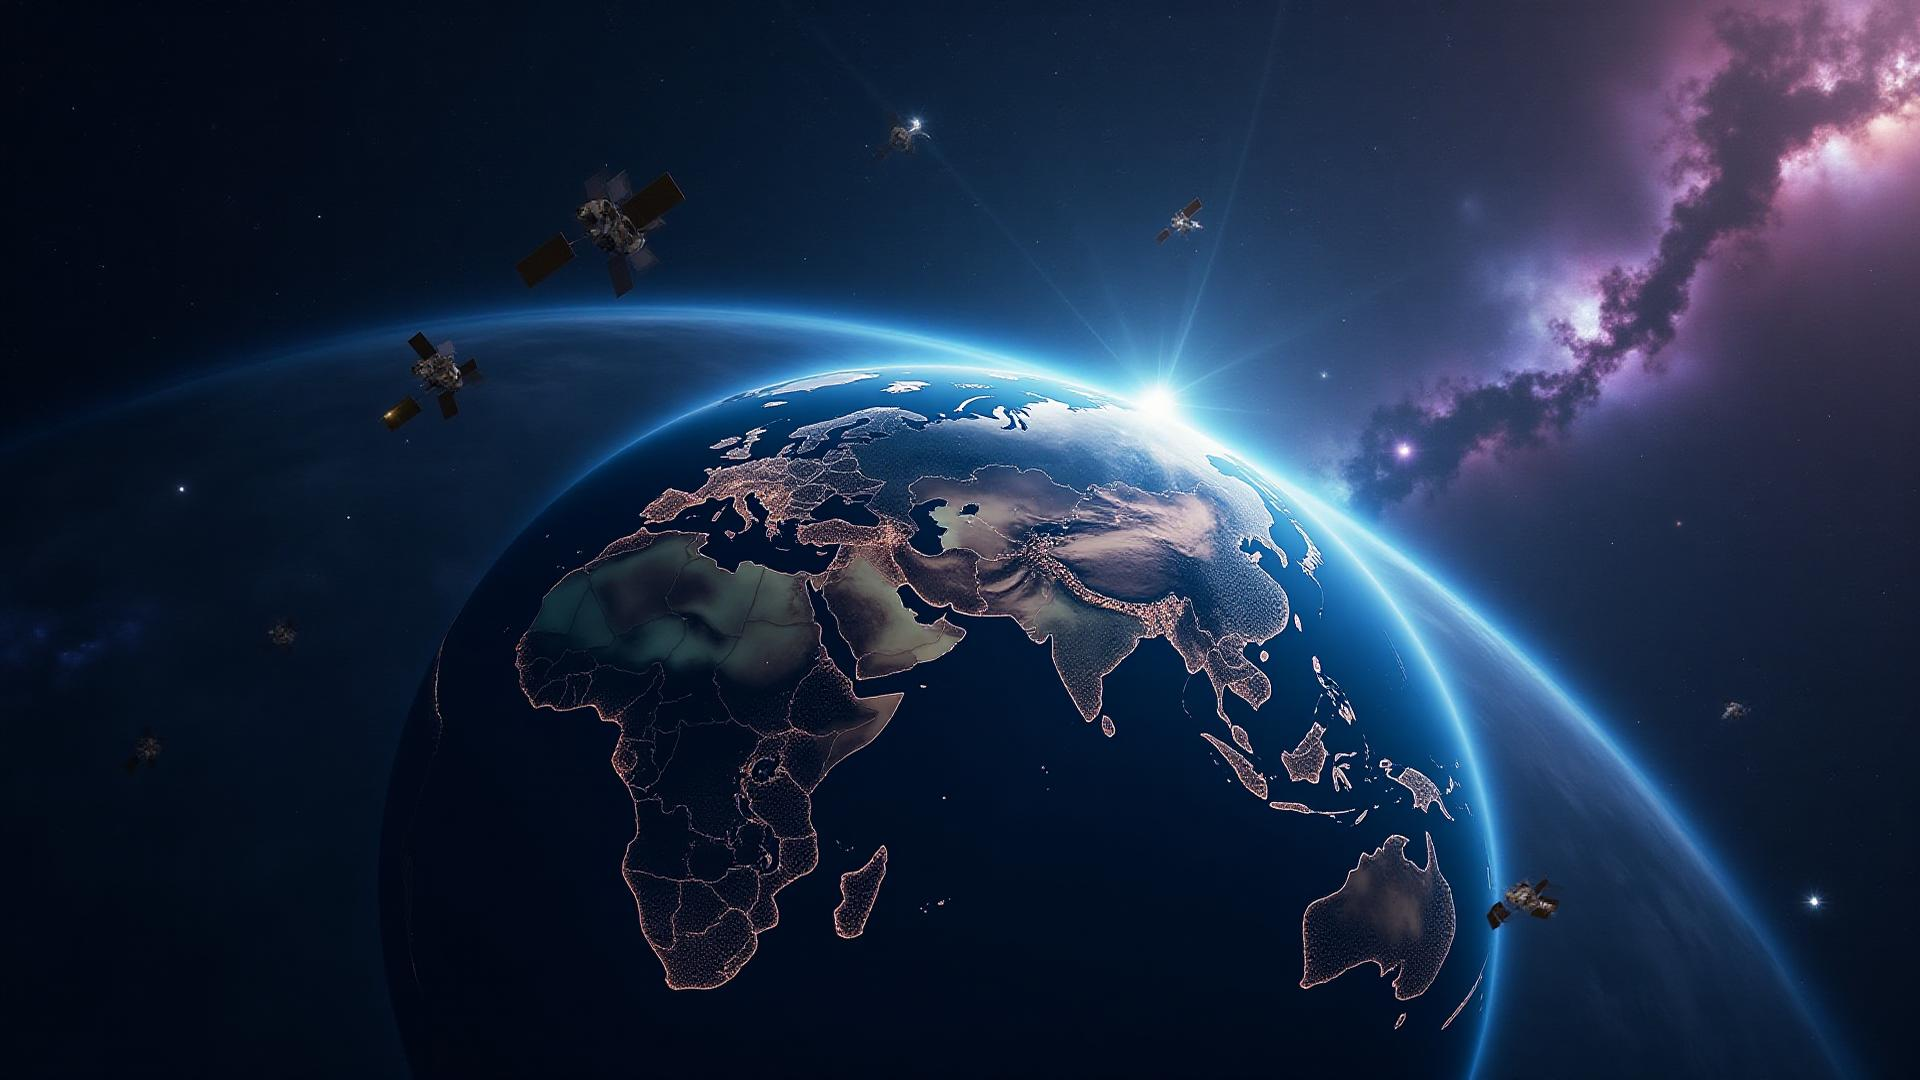
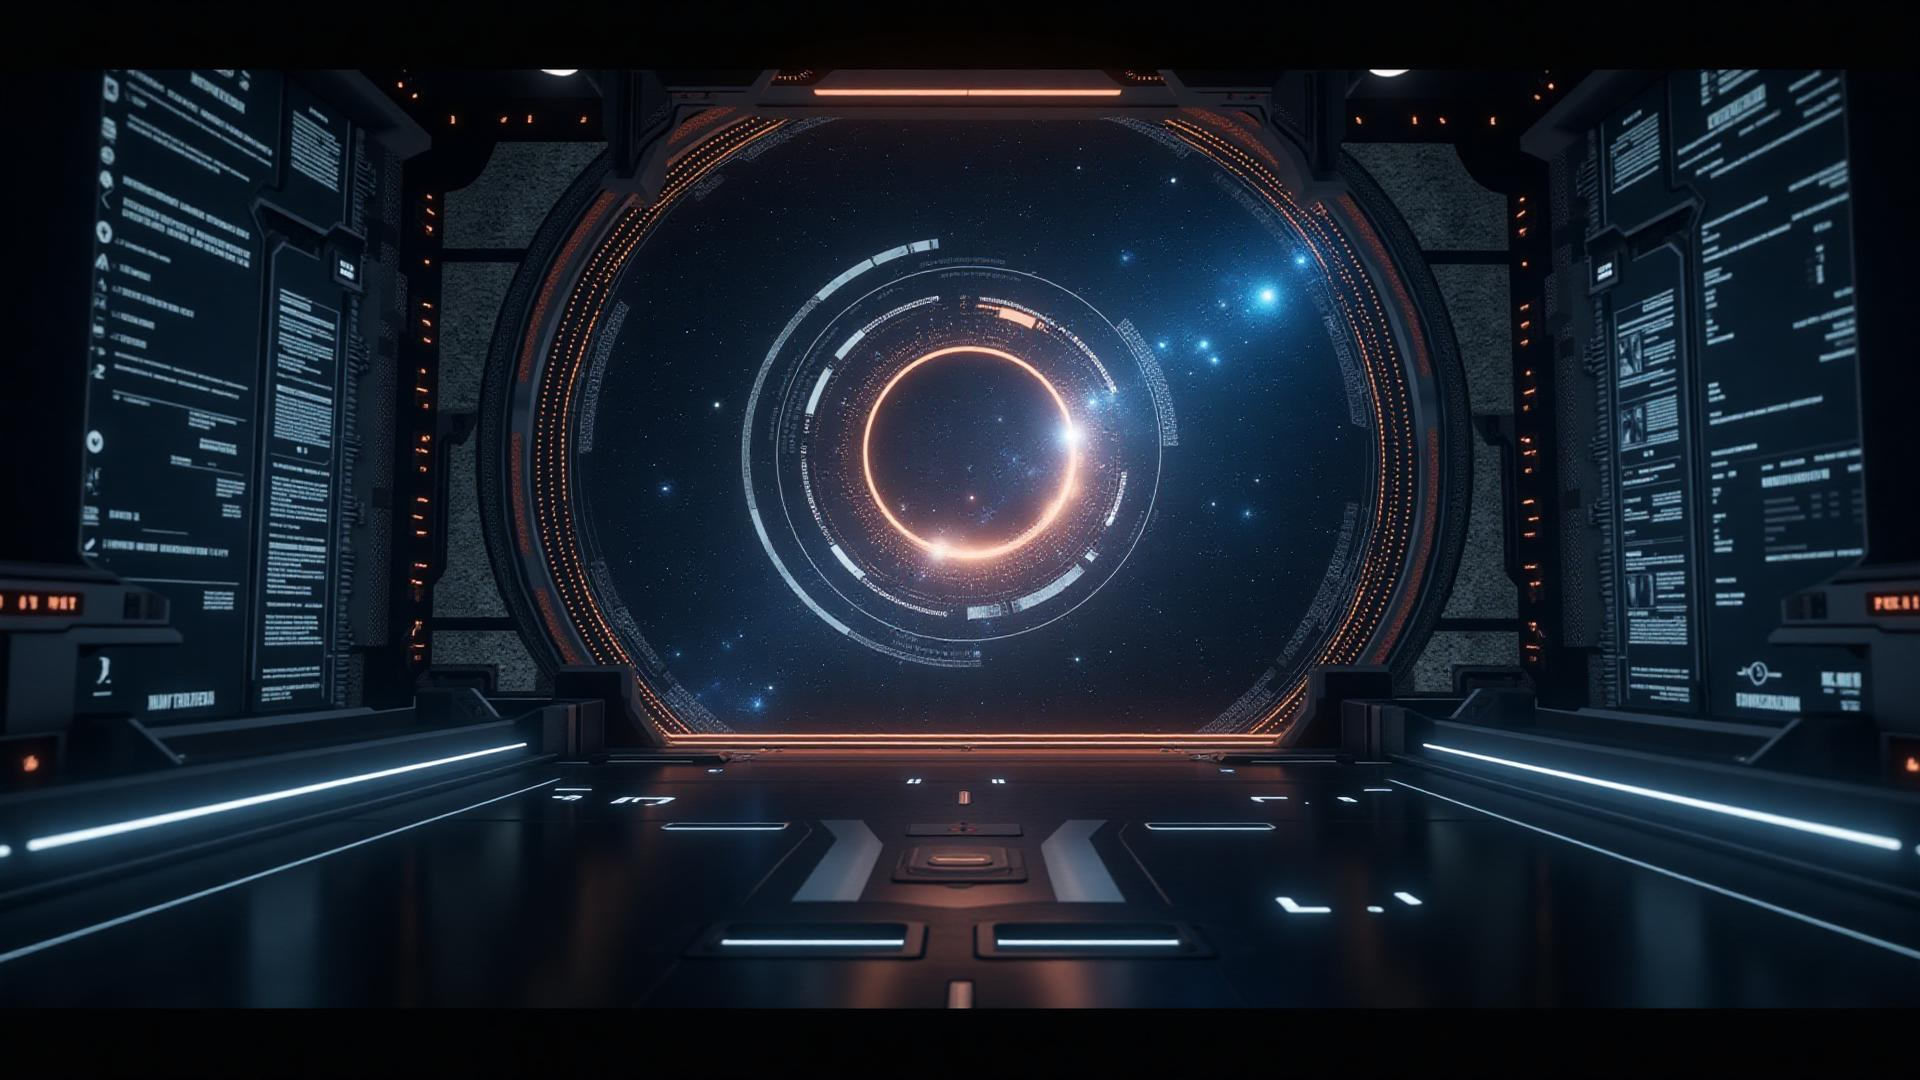
Resolve "spaceHero is not defined" error

diff --git a/src/stores/educationStore.ts b/src/stores/educationStore.ts
@@ -1,6 +1,5 @@
 import { create } from 'zustand';
 import { persist } from 'zustand/middleware';
-import { immer } from 'zustand/middleware/immer';
 
 export interface Lesson {
   id: string;
@@ -488,43 +487,43 @@ const initialCourses: Course[] = [
 
 export const useEducationStore = create<EducationStore>()(
   persist(
-    immer((set, get) => ({
+    (set, get) => ({
       courses: initialCourses,
       selectedCourse: null,
       selectedLesson: null,
       _totalProgress: null,
       _progressLastUpdate: 0,
 
-      setSelectedCourse: (courseId) => set((state) => {
-        state.selectedCourse = courseId;
-        state.selectedLesson = null;
-      }),
+      setSelectedCourse: (courseId) => set({ selectedCourse: courseId, selectedLesson: null }),
       
-      setSelectedLesson: (lessonId) => set((state) => {
-        state.selectedLesson = lessonId;
-      }),
+      setSelectedLesson: (lessonId) => set({ selectedLesson: lessonId }),
       
       markLessonComplete: (courseId, lessonId) => set((state) => {
-        const course = state.courses.find(c => c.id === courseId);
-        if (course) {
-          const lesson = course.lessons.find(l => l.id === lessonId);
-          if (lesson && !lesson.completed) {
-            lesson.completed = true;
-            course.completedLessons = course.lessons.filter(l => l.completed).length;
-            state._totalProgress = null; // Invalidate cache
+        const updatedCourses = state.courses.map(course => {
+          if (course.id === courseId) {
+            const updatedLessons = course.lessons.map(lesson => 
+              lesson.id === lessonId ? { ...lesson, completed: true } : lesson
+            );
+            const completedCount = updatedLessons.filter(lesson => lesson.completed).length;
+            return {
+              ...course,
+              lessons: updatedLessons,
+              completedLessons: completedCount
+            };
           }
-        }
+          return course;
+        });
+        return { courses: updatedCourses, _totalProgress: null };
       }),
       
-      resetProgress: () => set((state) => {
-        state.courses.forEach(course => {
-          course.completedLessons = 0;
-          course.lessons.forEach(lesson => {
-            lesson.completed = false;
-          });
-        });
-        state._totalProgress = null; // Invalidate cache
-      }),
+      resetProgress: () => set((state) => ({
+        courses: state.courses.map(course => ({
+          ...course,
+          completedLessons: 0,
+          lessons: course.lessons.map(lesson => ({ ...lesson, completed: false }))
+        })),
+        _totalProgress: null
+      })),
       
       getTotalProgress: () => {
         const state = get();
@@ -540,18 +539,13 @@ export const useEducationStore = create<EducationStore>()(
         const progress = totalLessons > 0 ? Math.round((completedLessons / totalLessons) * 100) : 0;
         
         // Cache the result
-        set((state) => {
-          state._totalProgress = progress;
-          state._progressLastUpdate = now;
-        });
+        set({ _totalProgress: progress, _progressLastUpdate: now });
         
         return progress;
       },
       
-      _invalidateProgressCache: () => set((state) => {
-        state._totalProgress = null;
-      })
-    })),
+      _invalidateProgressCache: () => set({ _totalProgress: null })
+    }),
     {
       name: 'satellite-education-progress',
       partialize: (state) => ({
